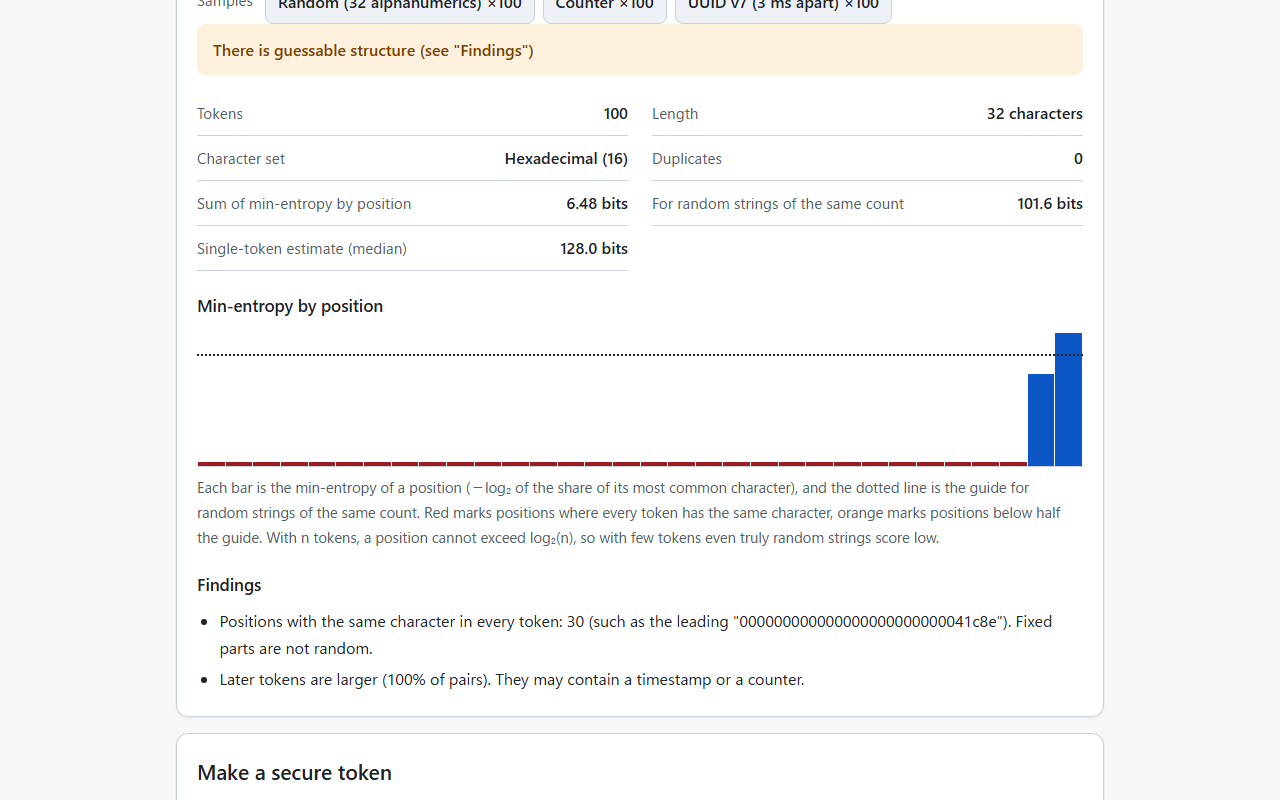
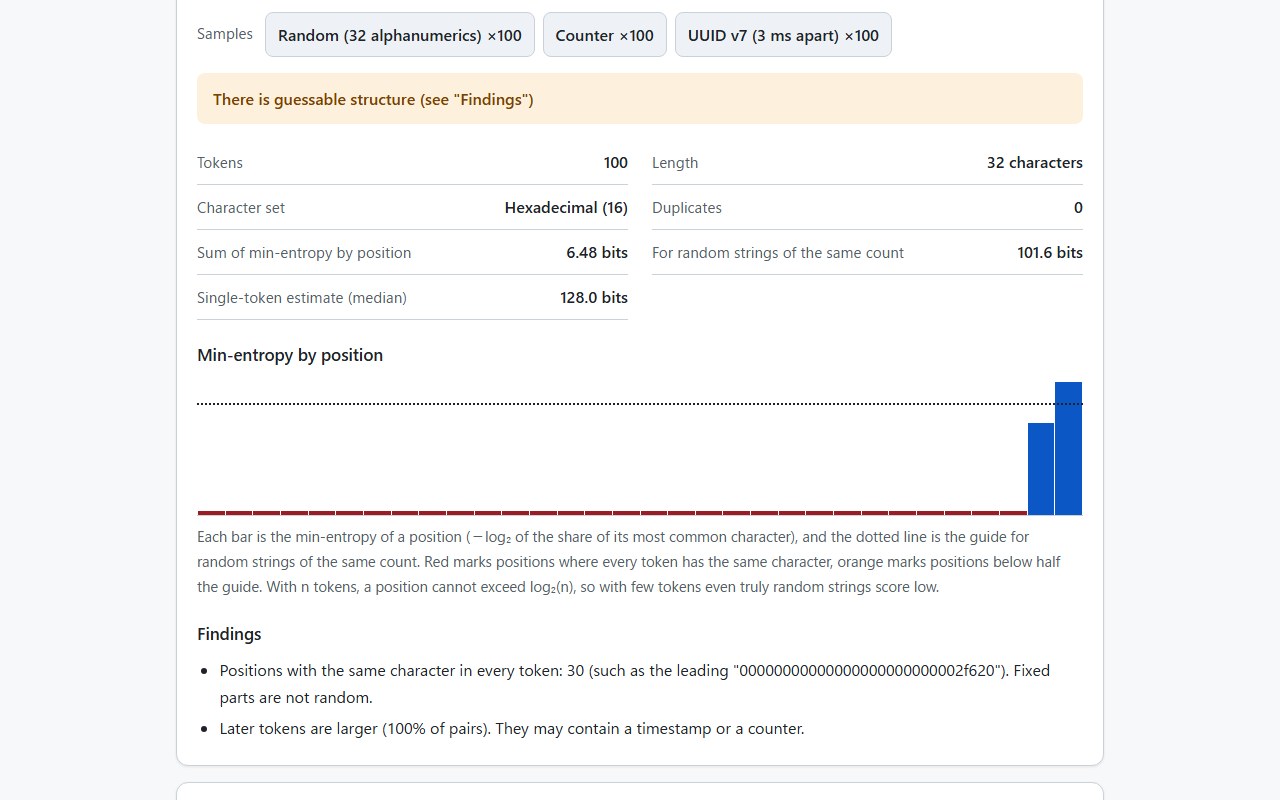
一括分析のサンプルと判定の間を空ける
- サンプルの行のすぐ下の判定（.samples + .verdict）に上の余白16pxを足す（接していて、フォーカスの枠が判定に重なっていた）
- 余白がフォーカスの枠の外側の幅より広いことをテストで確かめる
- スクリーンショット5（日英）を撮り直す

diff --git a/test/html.test.js b/test/html.test.js
@@ -66,6 +66,18 @@ test('サンプルのボタンは js/samples.js の順と同じ。ヘルプの ?
   assert.doesNotMatch(html, /<label[^>]*>[^<]*<button/);
 });
 
+test('一括分析のサンプルの行と判定の間は、フォーカスの枠より広く空いている', () => {
+  // サンプルの行のすぐ下に判定が来る。判定の上の余白が 0 だと、ボタンと判定の枠が接し、フォーカスの枠が判定に重なる
+  assert.match(html, /data-batch="uuid7"[^\n]*\n\s*<\/div>\n\s*<p id="batchVerdict" class="verdict"/);
+  const css = read('style.css');
+  const focus = css.match(/:focus-visible \{\s*outline: (\d+)px solid [^;]+;\s*outline-offset: (\d+)px;/);
+  assert.ok(focus);
+  const ring = Number(focus[1]) + Number(focus[2]);
+  const gap = css.match(/\.samples \+ \.verdict \{\s*margin-top: (\d+)px;/);
+  assert.ok(gap, '.samples + .verdict の margin-top がない');
+  assert.ok(Number(gap[1]) >= ring + 8, `${gap[1]}px < ${ring + 8}px`);
+});
+
 test('判定の基準の選択肢は、ロジックの基準と同じ（既定は128ビット）', async () => {
   const { core } = await import('./load.js');
   const TE = core();

diff --git a/style.css b/style.css
@@ -388,6 +388,11 @@ button.secondary:hover {
   border-color: var(--border);
 }
 
+/* 一括分析: サンプルの行のすぐ下に判定が来る。フォーカスの枠（外側5px）が判定に重ならない間を空ける */
+.samples + .verdict {
+  margin-top: 16px;
+}
+
 .options {
   margin-top: 16px;
   border-top: 1px solid var(--border);
